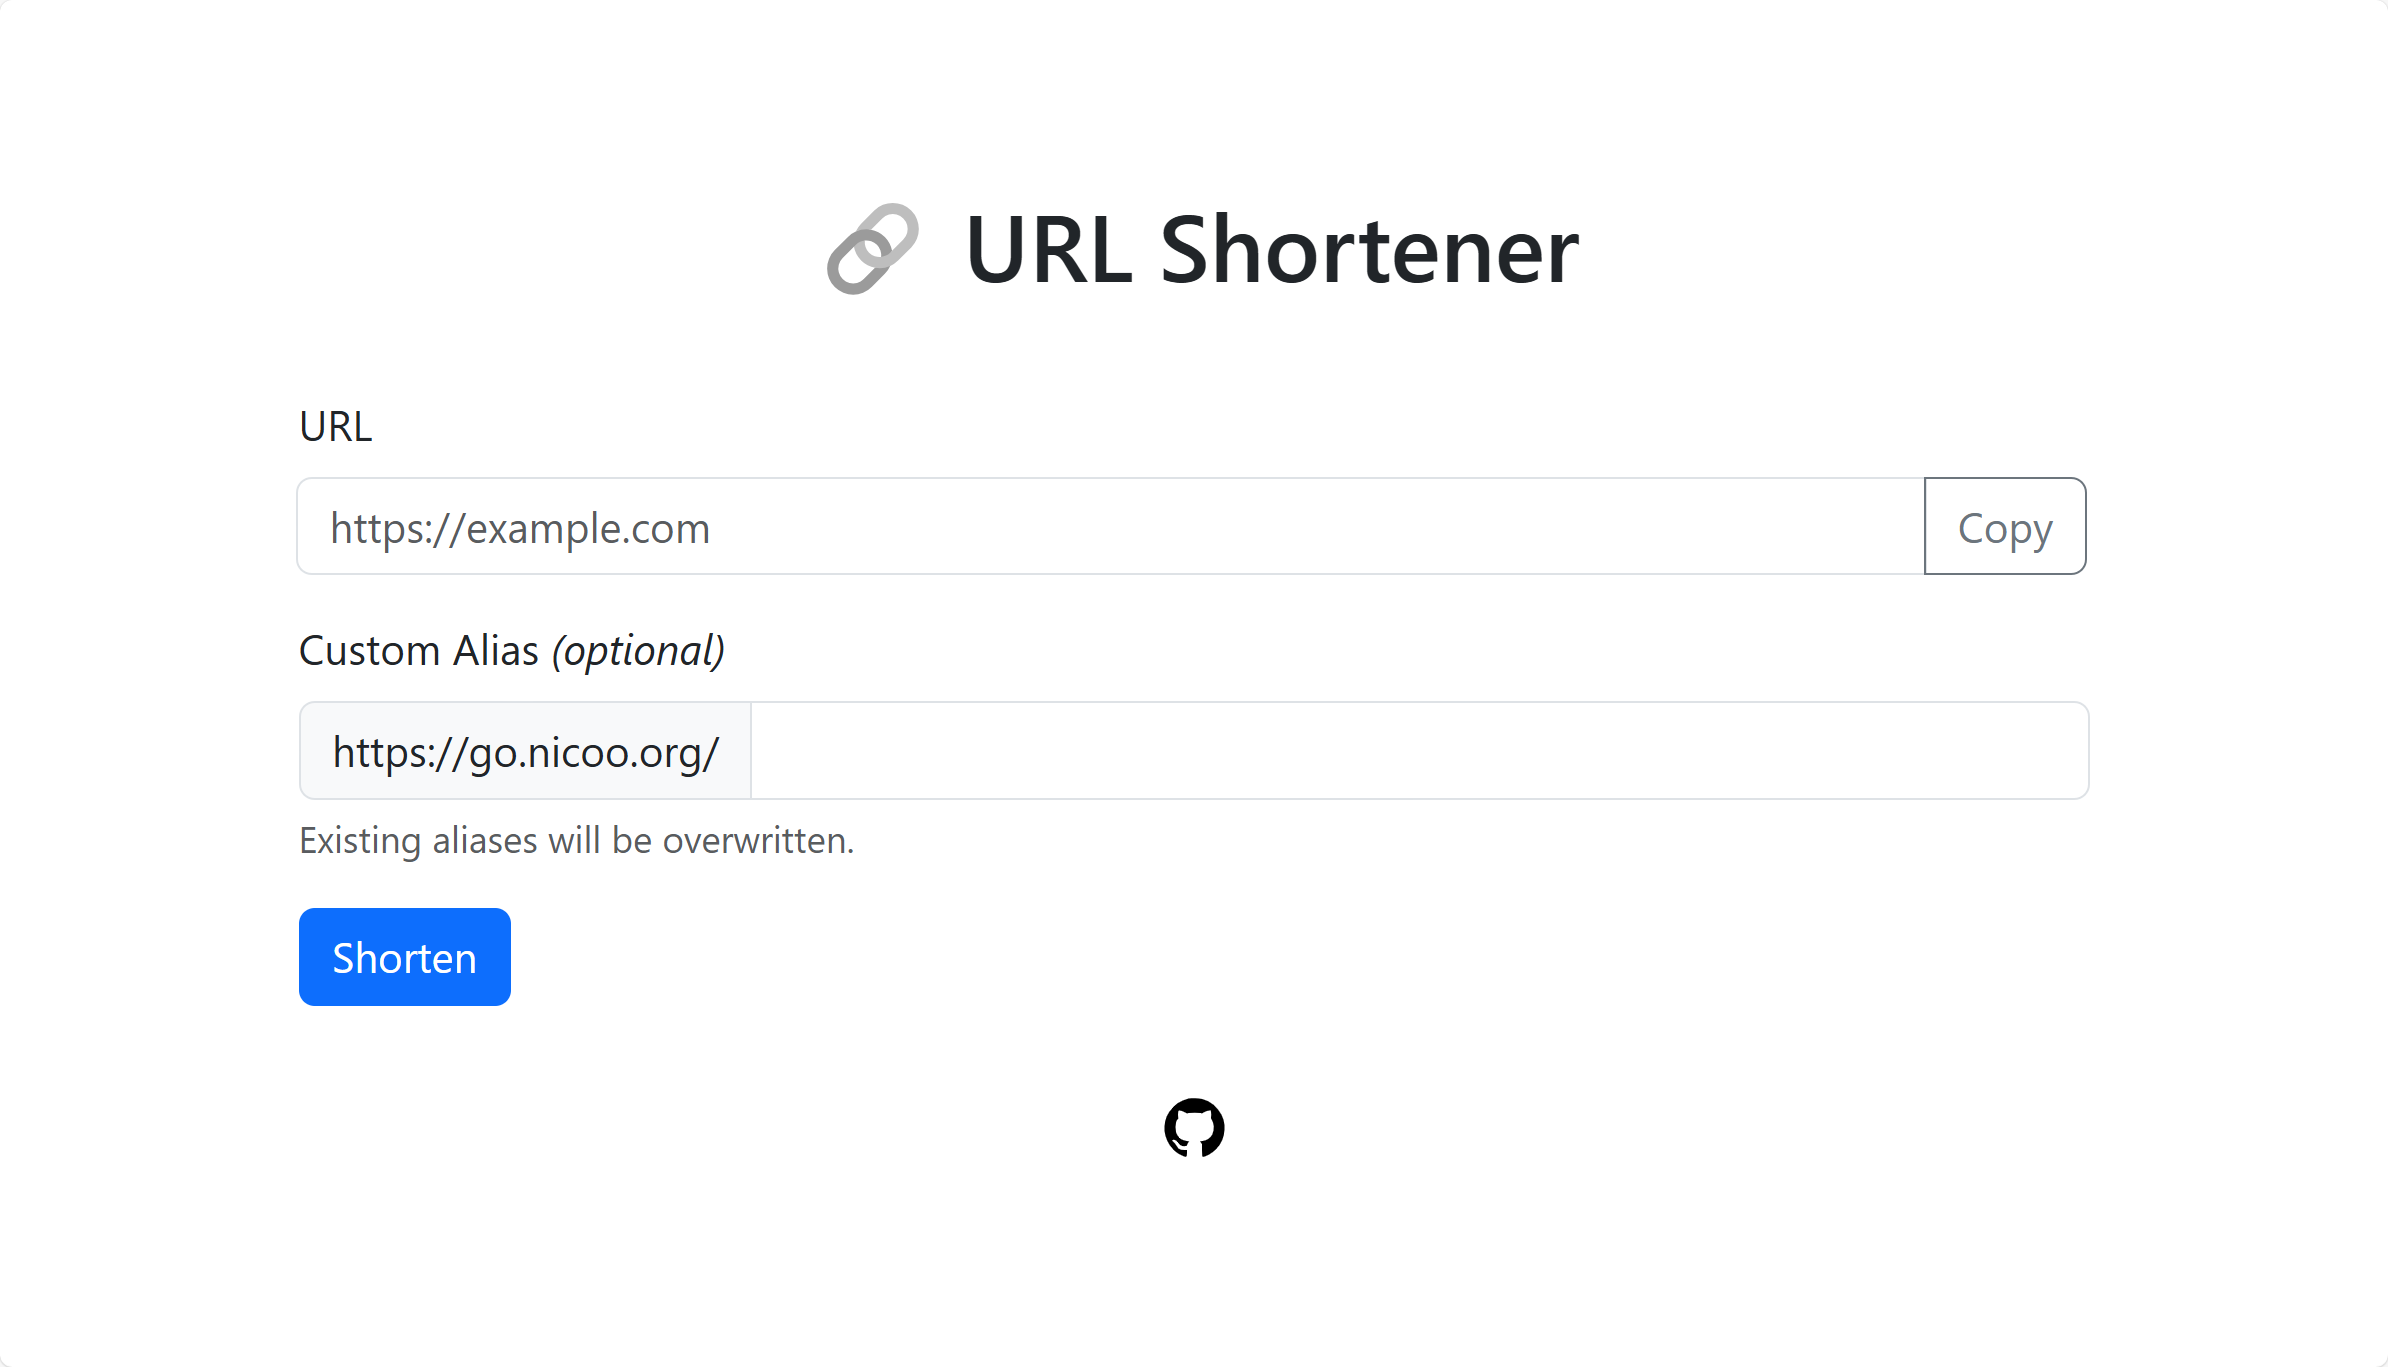
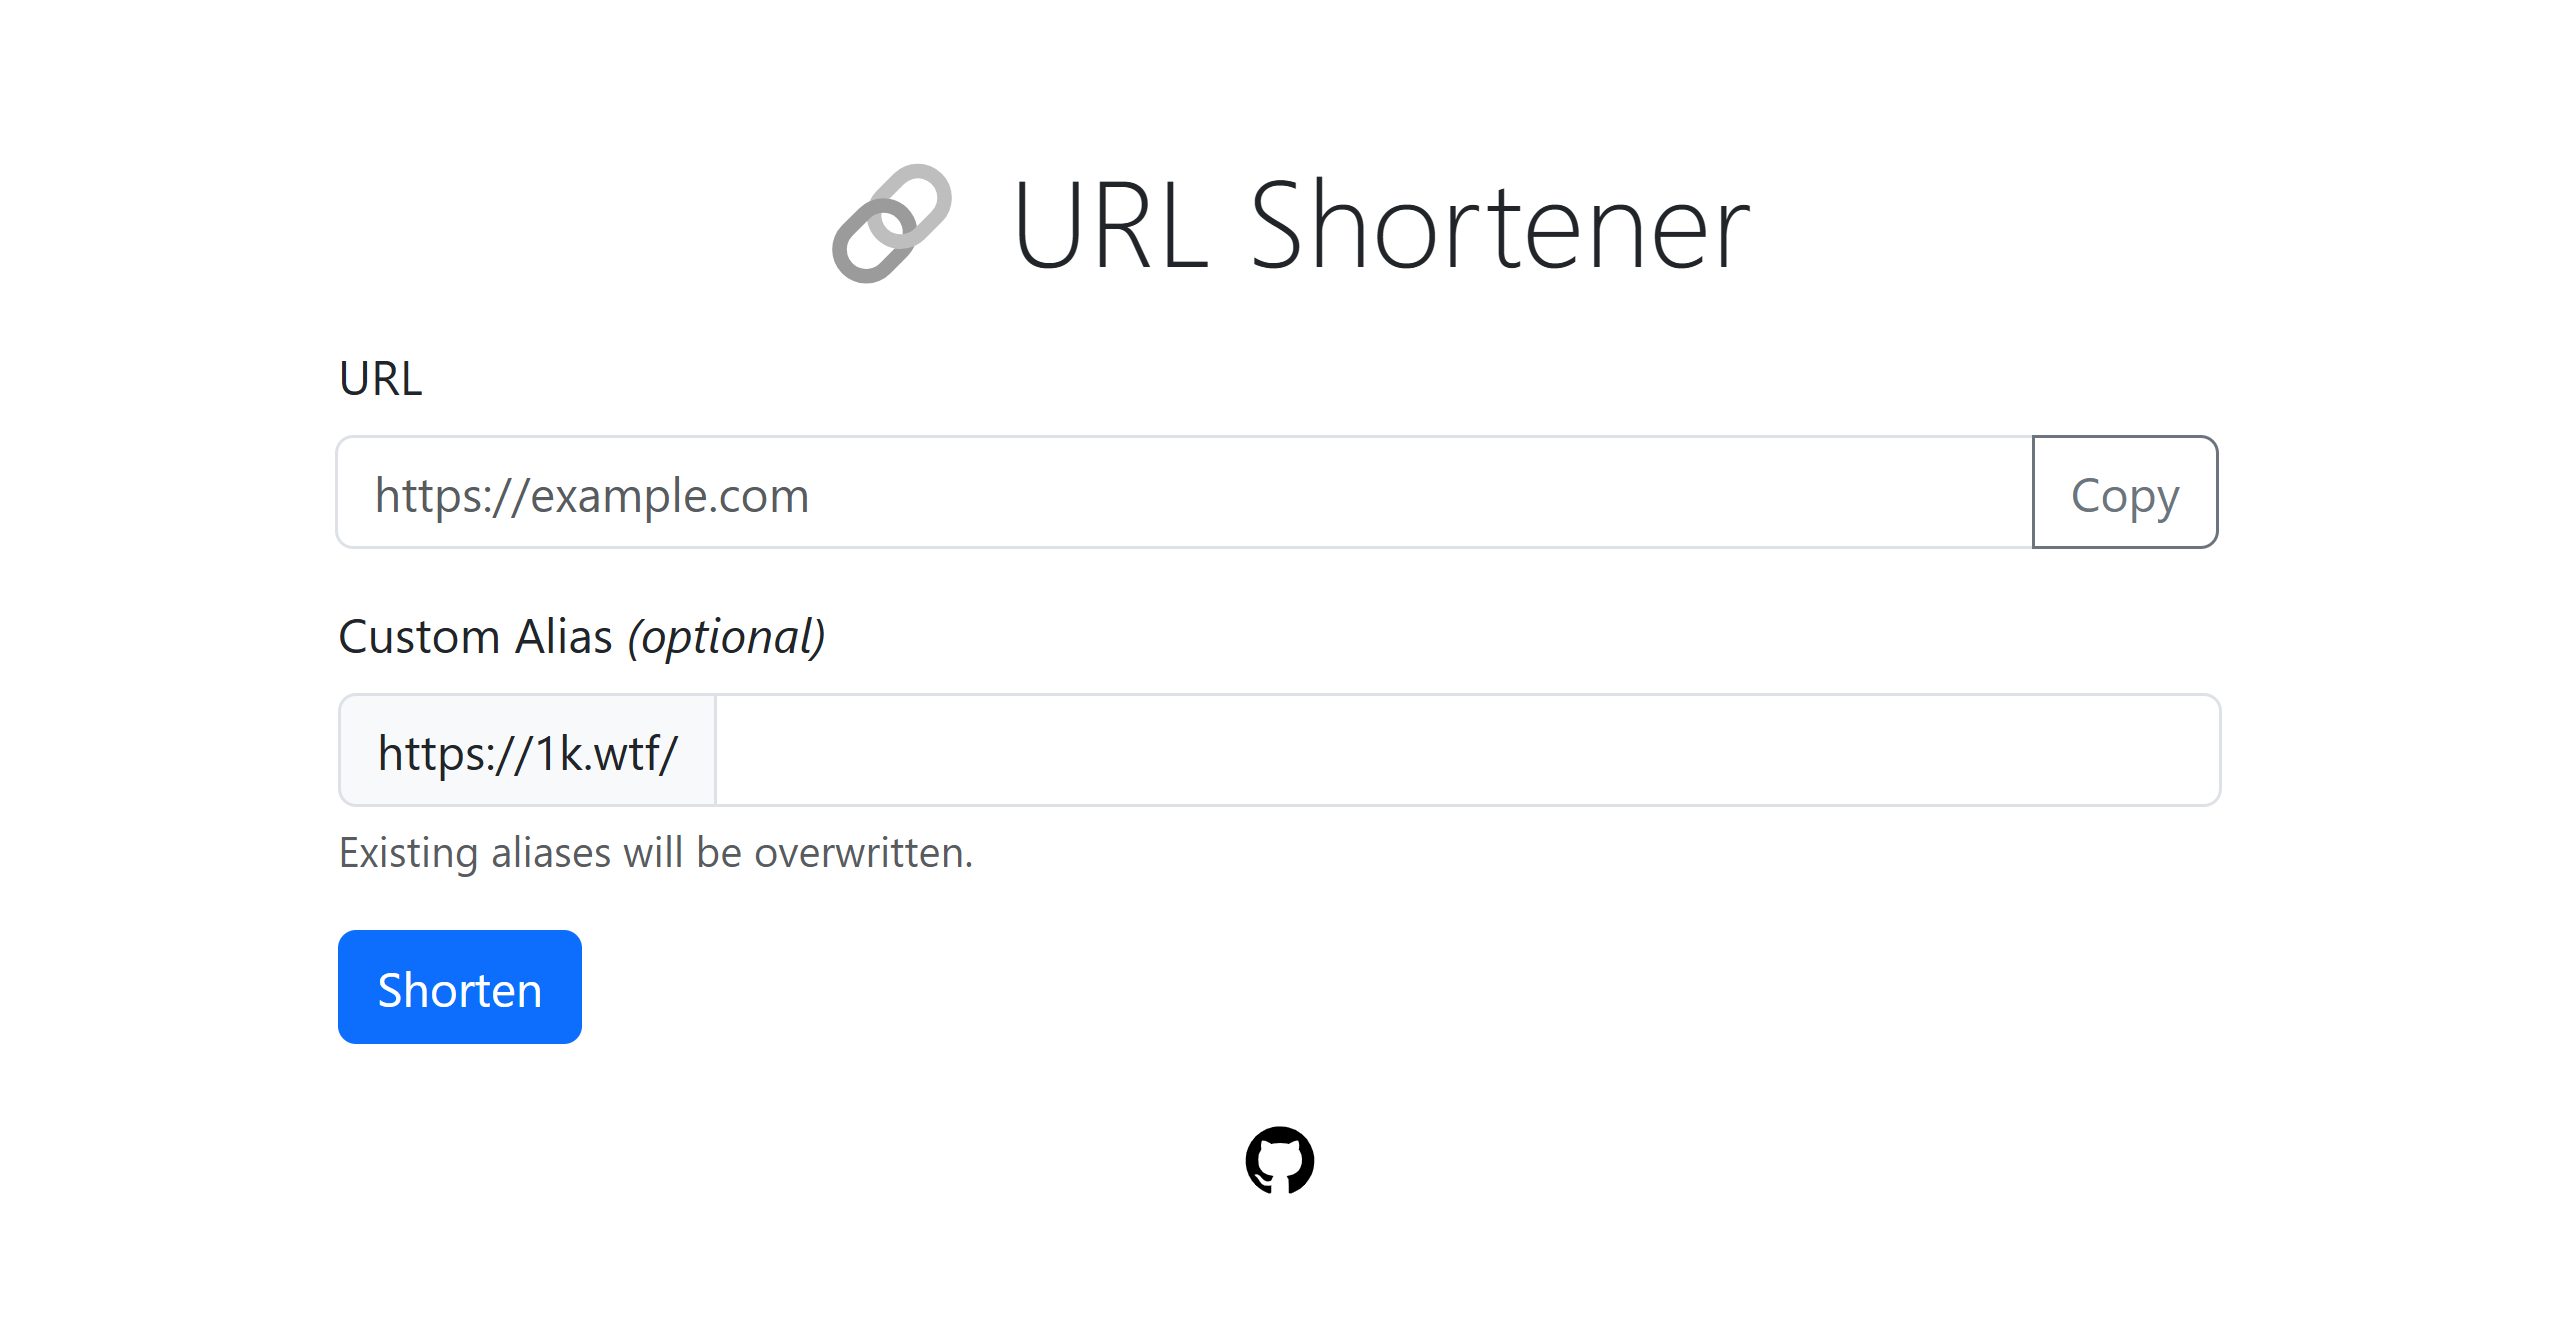
Added new UI

diff --git a/src/html.ts b/src/html.ts
@@ -5,64 +5,49 @@ export const frontendHtml = `
 <head>
     <meta charset="utf-8">
     <meta name="viewport" content="width=device-width, initial-scale=1" />
-    <meta http-equiv="Cache-Control" content="no-cache, no-store, must-revalidate" />
-    <meta http-equiv="Pragma" content="no-cache" />
-    <meta http-equiv="Expires" content="0" />
     <link rel="stylesheet" href="https://cdn.jsdelivr.net/npm/bootstrap@5.3.3/dist/css/bootstrap.min.css">
     <title>URL Shortener</title>
 </head>
-<style>
-    h1 {
-        text-align: center;
-        margin-top: 2em;
-        margin-bottom: 1em;
-    }
-
-    .footer {
-        text-align: center;
-        margin-top: 2em;
-        margin-bottom: 2em;
-        width: 100%;
-    }
-</style>
 
 <body>
-    <h1>🔗 URL Shortener</h1>
+    <div class="my-5 mx-2">
+        <h1 class="display-5 text-center mb-3">🔗 URL Shortener</h1>
 
-    <div class="col-9 col-xxl-3 mx-auto">
-        <div class="alert alert-primary" role="alert" id="alert" hidden></div>
+        <div class="col-9 col-xxl-3 mx-auto">
+            <div class="alert alert-primary" role="alert" id="alert" hidden></div>
 
-        <form id="form" onsubmit="shortenUrl()">
-            <div class="input-group mb-3">
-                <label for="basic-url" class="form-label">URL</label>
-                <div class="input-group">
-                    <input type="text" class="form-control" placeholder="https://example.com" id="url"
-                        aria-label="https://example.com" aria-describedby="button-addon2" required>
-                    <button class="btn btn-outline-secondary" type="button" id="button-addon2"
-                        onclick="copyToClipboard()">Copy</button>
+            <form id="form" onsubmit="shortenUrl()">
+                <div class="input-group mb-3">
+                    <label for="basic-url" class="form-label">URL</label>
+                    <div class="input-group">
+                        <input type="text" class="form-control" placeholder="https://example.com" id="url"
+                            aria-label="https://example.com" aria-describedby="button-addon2" required>
+                        <button class="btn btn-outline-secondary" type="button" id="button-addon2"
+                            onclick="copyToClipboard()">Copy</button>
+                    </div>
                 </div>
-            </div>
 
-            <div class="mb-3">
-                <label for="basic-url" class="form-label">Custom Alias <i>(optional)</i></label>
-                <div class="input-group">
-                    <span class="input-group-text" id="current-url"></span>
-                    <input type="text" class="form-control" id="alias" aria-describedby="basic-addon3 basic-addon4">
+                <div class="mb-3">
+                    <label for="basic-url" class="form-label">Custom Alias <i>(optional)</i></label>
+                    <div class="input-group">
+                        <span class="input-group-text" id="current-url"></span>
+                        <input type="text" class="form-control" id="alias" aria-describedby="basic-addon3 basic-addon4">
+                    </div>
+                    <div id="help-block" class="form-text">Existing aliases will be overwritten.</div>
                 </div>
-                <div id="help-block" class="form-text">Existing aliases will be overwritten.</div>
-            </div>
 
-            <button class="btn btn-primary" type="submit" id="button">
-                <span class="spinner-border spinner-border-sm" aria-hidden="true" id="button-spinner"
-                    hidden="true"></span>
-                <span role="status" id="button-text">Shorten</span>
-            </button>
-        </form>
-    </div>
+                <button class="btn btn-primary" type="submit" id="button">
+                    <span class="spinner-border spinner-border-sm" aria-hidden="true" id="button-spinner"
+                        hidden="true"></span>
+                    <span role="status" id="button-text">Shorten</span>
+                </button>
+            </form>
+        </div>
 
-    <div class="footer">
-        <a href="https://github.com/L480/url-shortener" target="_blank"><img style="height: 1.5em; width: auto;"
-                src="https://upload.wikimedia.org/wikipedia/commons/c/c2/GitHub_Invertocat_Logo.svg"></a>
+        <div class="d-flex justify-content-center mt-4">
+            <a href="https://github.com/L480/url-shortener" target="_blank"><img style="height: 1.5em; width: auto;"
+                    src="https://upload.wikimedia.org/wikipedia/commons/c/c2/GitHub_Invertocat_Logo.svg"></a>
+        </div>
     </div>
 
     <script src="https://cdn.jsdelivr.net/npm/bootstrap@5.3.3/dist/js/bootstrap.bundle.min.js"
@@ -72,6 +57,15 @@ export const frontendHtml = `
 <script>
     const currentUrl = 'https://' + window.location.host + '/';
     document.getElementById('current-url').textContent = currentUrl;
+
+    window.addEventListener('DOMContentLoaded', (event) => {
+        const urlField = document.getElementById('url');
+
+        urlField.addEventListener('click', () => {
+            document.getElementById('url').setAttribute('class', 'form-control');
+            urlField.select();
+        });
+    });
 
     async function copyToClipboard() {
         const url = document.getElementById('url').value;
@@ -112,7 +106,6 @@ export const frontendHtml = `
                     const url = 'https://' + window.location.host + '/' + data.alias;
                     document.getElementById('url').value = url;
                     document.getElementById('url').setAttribute('class', 'form-control is-valid');
-                    setTimeout(function () { document.getElementById('url').setAttribute('class', 'form-control'); }, 2000);
                 } else {
                     document.getElementById('alert').setAttribute('class', 'alert alert-danger');
                     document.getElementById('alert').innerHTML = data.message;
@@ -134,101 +127,64 @@ export const frontendHtml = `
 </html>
 `
 
-// Recycled from https://github.com/samharp/redirect-website-template/blob/main/loading.html
 export const redirectHtml = `
-<!DOCTYPE html>
+<!doctype html>
+<html lang="en">
 
 <head>
-  <meta name="viewport" content="width=device-width, initial-scale=1.0">
-  <meta name="referrer" content="no-referrer" />
-  <meta http-equiv="Refresh" content="2; url={Replace}">
-
-  <style>
-    /* css reset */
-    * {
-      margin: 0;
-      padding: 0;
-    }
-
-    body {
-      display: flex;
-      width: 100vw;
-      height: 100vh;
-      overflow: hidden;
-      align-items: center;
-      justify-content: center;
-      line-height: 1.5;
-      font-size: 12px;
-      font-family: sans-serif;
-    }
-
-    .content-container {
-      color: white;
-      max-width: 600px;
-      margin: 0 auto;
-      padding: 20px;
-    }
-
-    .text-container {
-      text-align: center;
-      color: black;
-    }
-
-    /* loading animation styles */
-    .loading-container {
-      margin-bottom: 30px;
-      display: flex;
-      justify-content: center;
-      /* align-items:center; */
-    }
-
-    .loading-spinner {
-      border: 5px solid #666666;
-      /* accent color */
-      border-top-color: currentColor;
-      border-radius: 50%;
-      width: 30px;
-      height: 30px;
-      position: relative;
-      transform: rotate(0deg);
-      animation: loadSpin .85s ease infinite;
-    }
-
-    @keyframes loadSpin {
-      0% {
-        transform: rotate(0deg)
-      }
-
-      100% {
-        transform: rotate(360deg);
-      }
-    }
-
-    /* text beneath styles */
-    a {
-      color: currentColor;
-    }
-  </style>
-
+    <meta charset="utf-8">
+    <meta name="viewport" content="width=device-width, initial-scale=1" />
+    <meta name="referrer" content="no-referrer" />
+    <meta http-equiv="Refresh" content="2; url={Replace}">
+    <link rel="stylesheet" href="https://cdn.jsdelivr.net/npm/bootstrap@5.3.3/dist/css/bootstrap.min.css">
 </head>
 
 <body>
-  <div class="content-container">
+    <div class="my-5 mx-2">
+        <h1 class="display-5 text-center">You are being redirected ...</h1>
 
-    <!-- loading animation -->
-    <div class="loading-container">
-      <!--  -->
-      <!-- <p>loading spinner here</p> -->
-      <div class="loading-spinner"></div>
+        <div class="d-flex justify-content-center p-5">
+            <div class="spinner-border" style="width: 3rem; height: 3rem;" role="status">
+                <span class="visually-hidden">Loading...</span>
+            </div>
+        </div>
+
+        <div class="d-flex justify-content-center">
+            <p class="text-center">Not working? Click <a href="{Replace}">here</a> to redirect immediately.</p>
+            </p>
+        </div>
     </div>
 
-    <!-- text below -->
-    <div class="text-container">
-      <p>You are being redirected ...</p>
-      <p>Not working? Click <a href="{Replace}">here</a> to redirect immediately.</p>
+    <script src="https://cdn.jsdelivr.net/npm/bootstrap@5.3.3/dist/js/bootstrap.bundle.min.js"
+        integrity="sha384-YvpcrYf0tY3lHB60NNkmXc5s9fDVZLESaAA55NDzOxhy9GkcIdslK1eN7N6jIeHz"
+        crossorigin="anonymous"></script>
+</body>
+
+</html>
+`
+
+export const notFoundHtml = `
+<!doctype html>
+<html lang="en">
+
+<head>
+    <meta charset="utf-8">
+    <meta name="viewport" content="width=device-width, initial-scale=1" />
+    <link rel="stylesheet" href="https://cdn.jsdelivr.net/npm/bootstrap@5.3.3/dist/css/bootstrap.min.css">
+</head>
+
+<body>
+    <div class="my-5 mx-2">
+        <h1 class="display-5 text-center">Nothing to see here!</h1>
+
+        <div class="d-flex justify-content-center p-4">
+            <p class="text-center">This domain is being used for URL shortening. However, this route does not exist.</p>
+        </div>
     </div>
 
-  </div>
+    <script src="https://cdn.jsdelivr.net/npm/bootstrap@5.3.3/dist/js/bootstrap.bundle.min.js"
+        integrity="sha384-YvpcrYf0tY3lHB60NNkmXc5s9fDVZLESaAA55NDzOxhy9GkcIdslK1eN7N6jIeHz"
+        crossorigin="anonymous"></script>
 </body>
 
 </html>

diff --git a/src/index.ts b/src/index.ts
@@ -2,7 +2,7 @@
 import { Hono } from 'hono'
 import { z } from 'zod'
 import { zValidator } from '@hono/zod-validator'
-import { frontendHtml, redirectHtml } from './html'
+import { frontendHtml, notFoundHtml, redirectHtml } from './html'
 import { validateUrl, saveUrl, overwriteUrl } from './helpers'
 import { config } from './config'
 
@@ -13,7 +13,7 @@ const schema = z.object({
 
 const app = new Hono<{ Bindings: Bindings }>()
 
-app.notFound((c) => c.text('Not found.', 404))
+app.notFound((c) => c.html(notFoundHtml, 404))
 
 app.post(config.frontendRoute, zValidator('json', schema), async (c) => {
     const body = c.req.valid('json')
@@ -43,7 +43,7 @@ app.get('/*', async (c) => {
             const redirect = redirectHtml.replace(/{Replace}/gm, metadata.url) // Hide referrer header
             return c.html(redirect)
         } else {
-            return c.text('Not found.', 404)
+            return c.html(notFoundHtml, 404)
         }
     }
 })

diff --git a/README.md b/README.md
@@ -76,3 +76,5 @@ POST /shorten
     - Only increase [`ALIAS_LENGTH`](wrangler.toml#L14) if your KV namespace is empty, otherwise duplicated aliases are being created.
 - Are the aliases the same across all deployed workers?
     - If you don't change the [`SALT`](wrangler.toml#L15) variable, the aliases will be the same.
+- Can I change the `/shorten` route?
+    - Yes, the `/shorten` route can be overwritten in [config.ts](src/config.ts#L2).
